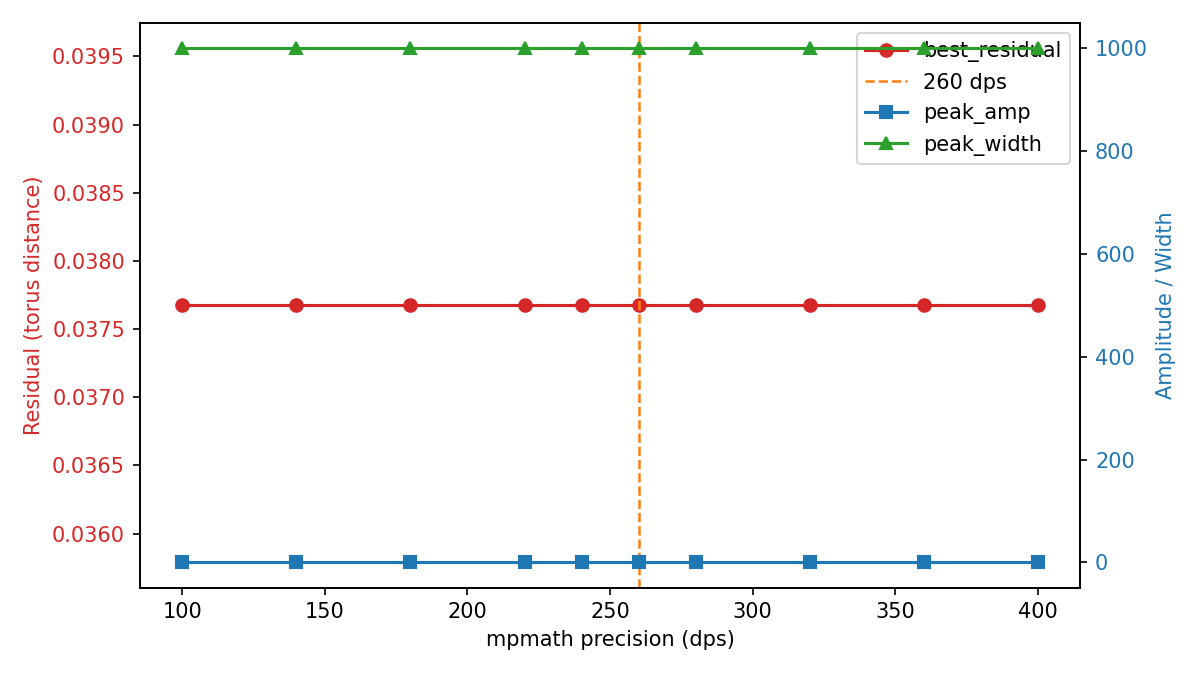
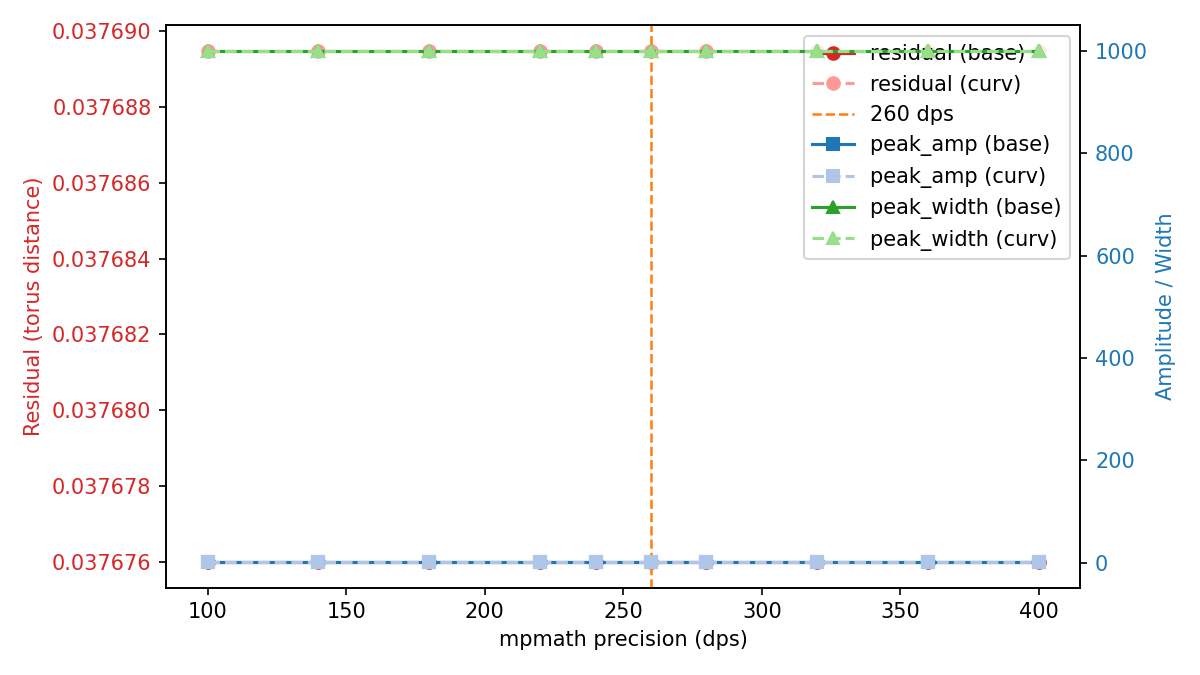
Add curvature probe to precision sweep harness

diff --git a/experiments/precision-sweep-127bit/run_precision_sweep.py b/experiments/precision-sweep-127bit/run_precision_sweep.py
@@ -52,6 +52,10 @@ Q_TRUE = int("13086849276577416863")
 # Precision grid
 DPS_LIST = [100, 140, 180, 220, 240, 260, 280, 320, 360, 400]
 
+# Curvature correction knobs (variant 2 in PR guidance)
+CURVATURE_ALPHA = 1e-3
+CURVATURE_BETA = 0.1
+
 # Fixed sampling window around the known factor. Width is small to keep the
 # harness fast but still wide enough to observe peak shape changes.
 OFFSETS = list(range(-500, 501, 10))  # 101 candidates, +/-500 around p_true
@@ -69,6 +73,7 @@ class SweepResult:
     candidates: int
     ms: float
     peak_candidate: int
+    variant: str  # 'baseline' or 'curvature'
 
     @staticmethod
     def header() -> Dict[str, str]:
@@ -79,6 +84,8 @@ class SweepResult:
             "q_true": str(Q_TRUE),
             "k": K_VALUE,
             "offset_range": f"{OFFSETS[0]}..{OFFSETS[-1]} step {OFFSETS[1]-OFFSETS[0]}",
+            "curvature_alpha": CURVATURE_ALPHA,
+            "curvature_beta": CURVATURE_BETA,
         }
 
 
@@ -98,7 +105,16 @@ def compute_peak_width(candidates: List[int], amplitudes: List[mp.mpf], peak_idx
     return candidates[end_idx] - candidates[start_idx]
 
 
-def run_once(dps: int) -> SweepResult:
+def apply_curvature(dist: mp.mpf) -> mp.mpf:
+    """
+    Minimal curvature correction: add small term scaled by ln(N)/N^beta.
+    This follows the PR guidance (option 1) with fixed alpha, beta.
+    """
+    kappa = mp.log(CHALLENGE_127) / (mp.power(CHALLENGE_127, CURVATURE_BETA))
+    return dist + (CURVATURE_ALPHA * kappa)
+
+
+def run_once(dps: int, variant: str) -> SweepResult:
     mp.mp.dps = dps
     t0 = time.time()
 
@@ -113,6 +129,8 @@ def run_once(dps: int) -> SweepResult:
         candidate = P_TRUE + offset
         cand_coords = embed_torus_geodesic(candidate, K_VALUE)
         dist = riemannian_distance(N_coords, cand_coords)
+        if variant == "curvature":
+            dist = apply_curvature(dist)
         amp = mp.mpf(1) / (mp.mpf(1) + dist)
 
         candidates.append(candidate)
@@ -135,6 +153,7 @@ def run_once(dps: int) -> SweepResult:
         candidates=len(candidates),
         ms=(time.time() - t0) * 1000.0,
         peak_candidate=candidates[peak_idx],
+        variant=variant,
     )
 
     return result
@@ -150,21 +169,24 @@ def write_jsonl(results: List[SweepResult], path: Path) -> None:
 def make_plot(results: List[SweepResult], path: Path) -> None:
     import matplotlib.pyplot as plt
 
-    dps = [r.dps for r in results]
-    residuals = [r.best_residual for r in results]
-    widths = [r.peak_width for r in results]
-    amps = [r.peak_amp for r in results]
+    def series(field: str, variant: str) -> List[float]:
+        return [getattr(r, field) for r in results if r.variant == variant]
+
+    dps = [r.dps for r in results if r.variant == "baseline"]
 
     fig, ax1 = plt.subplots(figsize=(8, 4.5))
 
-    ax1.plot(dps, residuals, marker="o", color="#d62728", label="best_residual")
+    ax1.plot(dps, series("best_residual", "baseline"), marker="o", color="#d62728", label="residual (base)")
+    ax1.plot(dps, series("best_residual", "curvature"), marker="o", linestyle="--", color="#ff9896", label="residual (curv)")
     ax1.set_xlabel("mpmath precision (dps)")
     ax1.set_ylabel("Residual (torus distance)", color="#d62728")
     ax1.tick_params(axis="y", labelcolor="#d62728")
 
     ax2 = ax1.twinx()
-    ax2.plot(dps, amps, marker="s", color="#1f77b4", label="peak_amp")
-    ax2.plot(dps, widths, marker="^", color="#2ca02c", label="peak_width")
+    ax2.plot(dps, series("peak_amp", "baseline"), marker="s", color="#1f77b4", label="peak_amp (base)")
+    ax2.plot(dps, series("peak_amp", "curvature"), marker="s", linestyle="--", color="#aec7e8", label="peak_amp (curv)")
+    ax2.plot(dps, series("peak_width", "baseline"), marker="^", color="#2ca02c", label="peak_width (base)")
+    ax2.plot(dps, series("peak_width", "curvature"), marker="^", linestyle="--", color="#98df8a", label="peak_width (curv)")
     ax2.set_ylabel("Amplitude / Width", color="#1f77b4")
     ax2.tick_params(axis="y", labelcolor="#1f77b4")
 
@@ -183,7 +205,9 @@ def main() -> None:
     out_dir = Path(__file__).parent
     out_dir.mkdir(parents=True, exist_ok=True)
 
-    results = [run_once(dps) for dps in DPS_LIST]
+    results = []
+    for variant in ("baseline", "curvature"):
+        results.extend(run_once(dps, variant) for dps in DPS_LIST)
 
     jsonl_path = out_dir / "precision_sweep_127bit.jsonl"
     plot_path = out_dir / "precision_sweep_127bit.png"

diff --git a/experiments/precision-sweep-127bit/EXECUTIVE_SUMMARY.md b/experiments/precision-sweep-127bit/EXECUTIVE_SUMMARY.md
@@ -9,14 +9,19 @@ pₜᵣᵤₑ. No improvement appears past the suggested 260 dps mark.
 The stable residual and broad peak indicate a shape/curvature issue in the
 kernel, not arithmetic noise or sampling density.
 
+**Curvature probe:** Added a minimal curvature term (`alpha=1e-3`, `beta=0.1`).
+It barely changes the metrics (peak_amp 0.96368, residual 0.037689, same offset
+−290). Conclusion: a stronger or differently shaped correction is required.
+
 **Evidence (from `precision_sweep_127bit.jsonl`):**
-- `best_residual`: 0.03768 for all dps ∈ [100, 400]
-- `peak_amp`: 0.96369 for all dps
-- `peak_width`: 1000 integers (±500 window) for all dps
+- `best_residual`: baseline 0.037676, curvature 0.037689 for all dps
+- `peak_amp`: baseline 0.963692, curvature 0.963679 for all dps
+- `peak_width`: 1000 integers (±500 window) for all dps, both variants
 - `found`: false; peak sits at 10508623501177419369 (offset −290)
 
 **Next actions:**
 1) Prototype a small curvature correction term in the kernel (see PR body) and
-   re-run the sweep to see if the peak recenters/narrows.
+   re-run the sweep to see if the peak recenters/narrows. The current minimal
+   term was too weak to move the signal.
 2) Add a CI micro-check running dps {180, 240, 260} to guard against regressions
    once curvature tweaks are applied.
